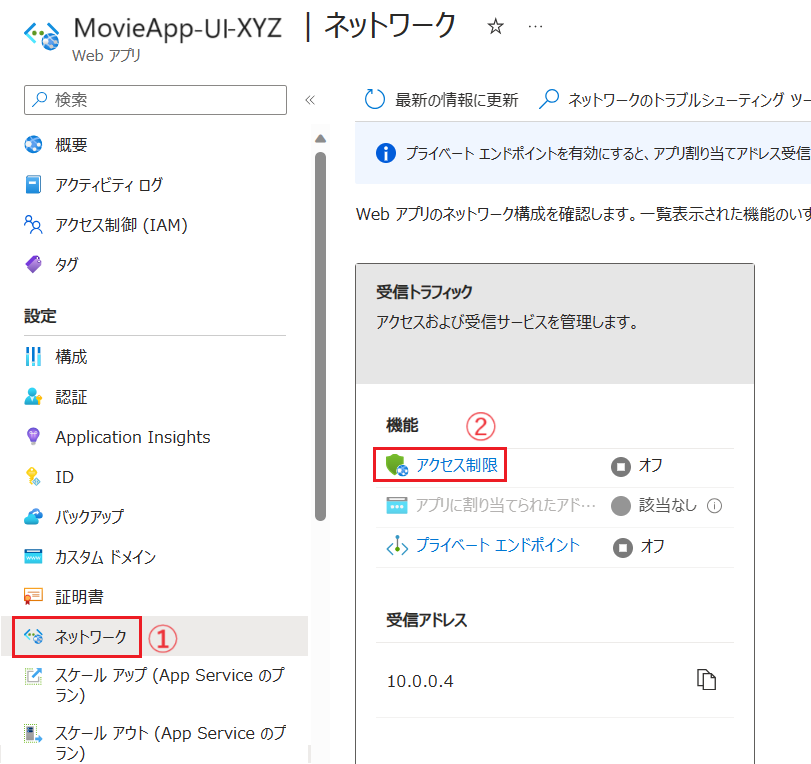
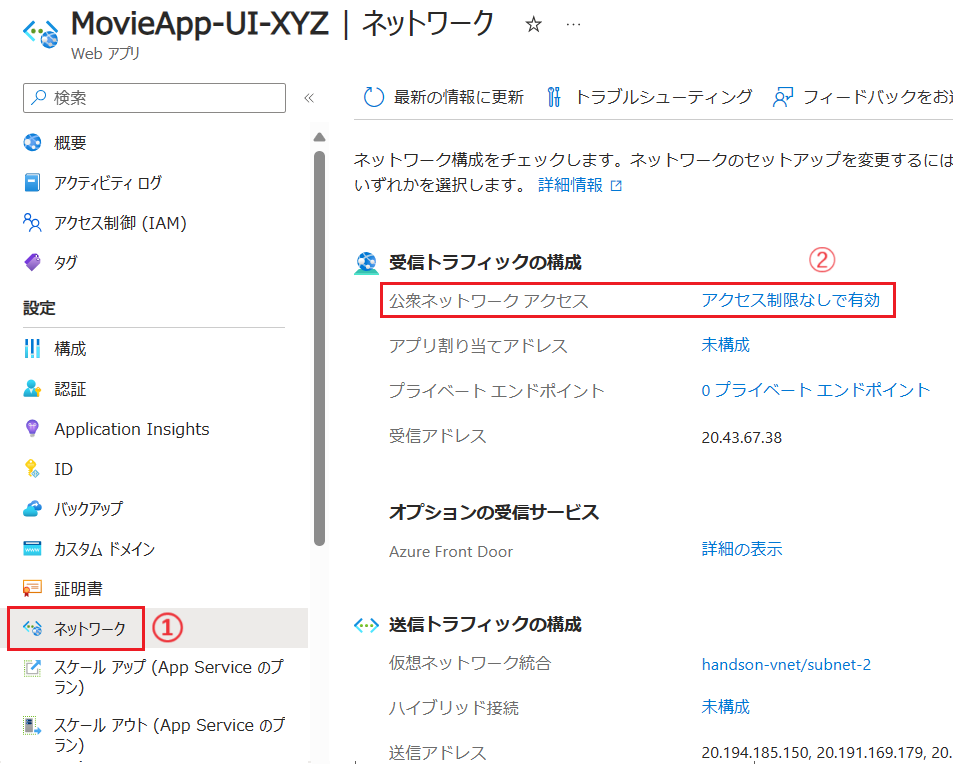
documnts fix

diff --git a/ex04.md b/ex04.md
@@ -773,11 +773,11 @@ Application Gateway のリソースを新規作成し、作成した仮想ネッ
 
      App Service `MovieApp-UI-XYZ` のリソース画面を開き、画面左のメニューから \[**ネットワーク**\] をクリックします。
 
-14. \[**ネットワーク**\] の画面に遷移するので、\[**受信トラフィック**] ボックス中の \[**アクセス制限**\] をクリックします
+14. \[**ネットワーク**\] の画面に遷移するので、項目 \[**受信トラフィックの構成**] の \[**公衆ネットワーク アクセス**\] - \[**アクセスなしで有効**\] リンクをクリックします
 
     <img src="images/AppService_Network_accessSetting.png" width="700px">
 
-15. \[**アクセス制限**\] の画面に遷移するので、\[**サイトのアクセスとルール**\] の \[**メインサイト**\] タブの \[**+ 追加**\] ボタンをクリックします
+15. \[**アクセス制限**\] の画面に遷移するので、項目 \[**公衆ネットワーク アクセス**\] の \[**選択した仮想ネットワークと IP アドレスから有効**\] オプション ボタンにチェックを入れ、\[**サイトのアクセスとルール**\] の \[**メインサイト**\] タブの \[**+ 追加**\] ボタンをクリックします
 
     画面右に \[**規則追加**\] ブレードが表示されるので、各項目を以下のように設定します。
 
